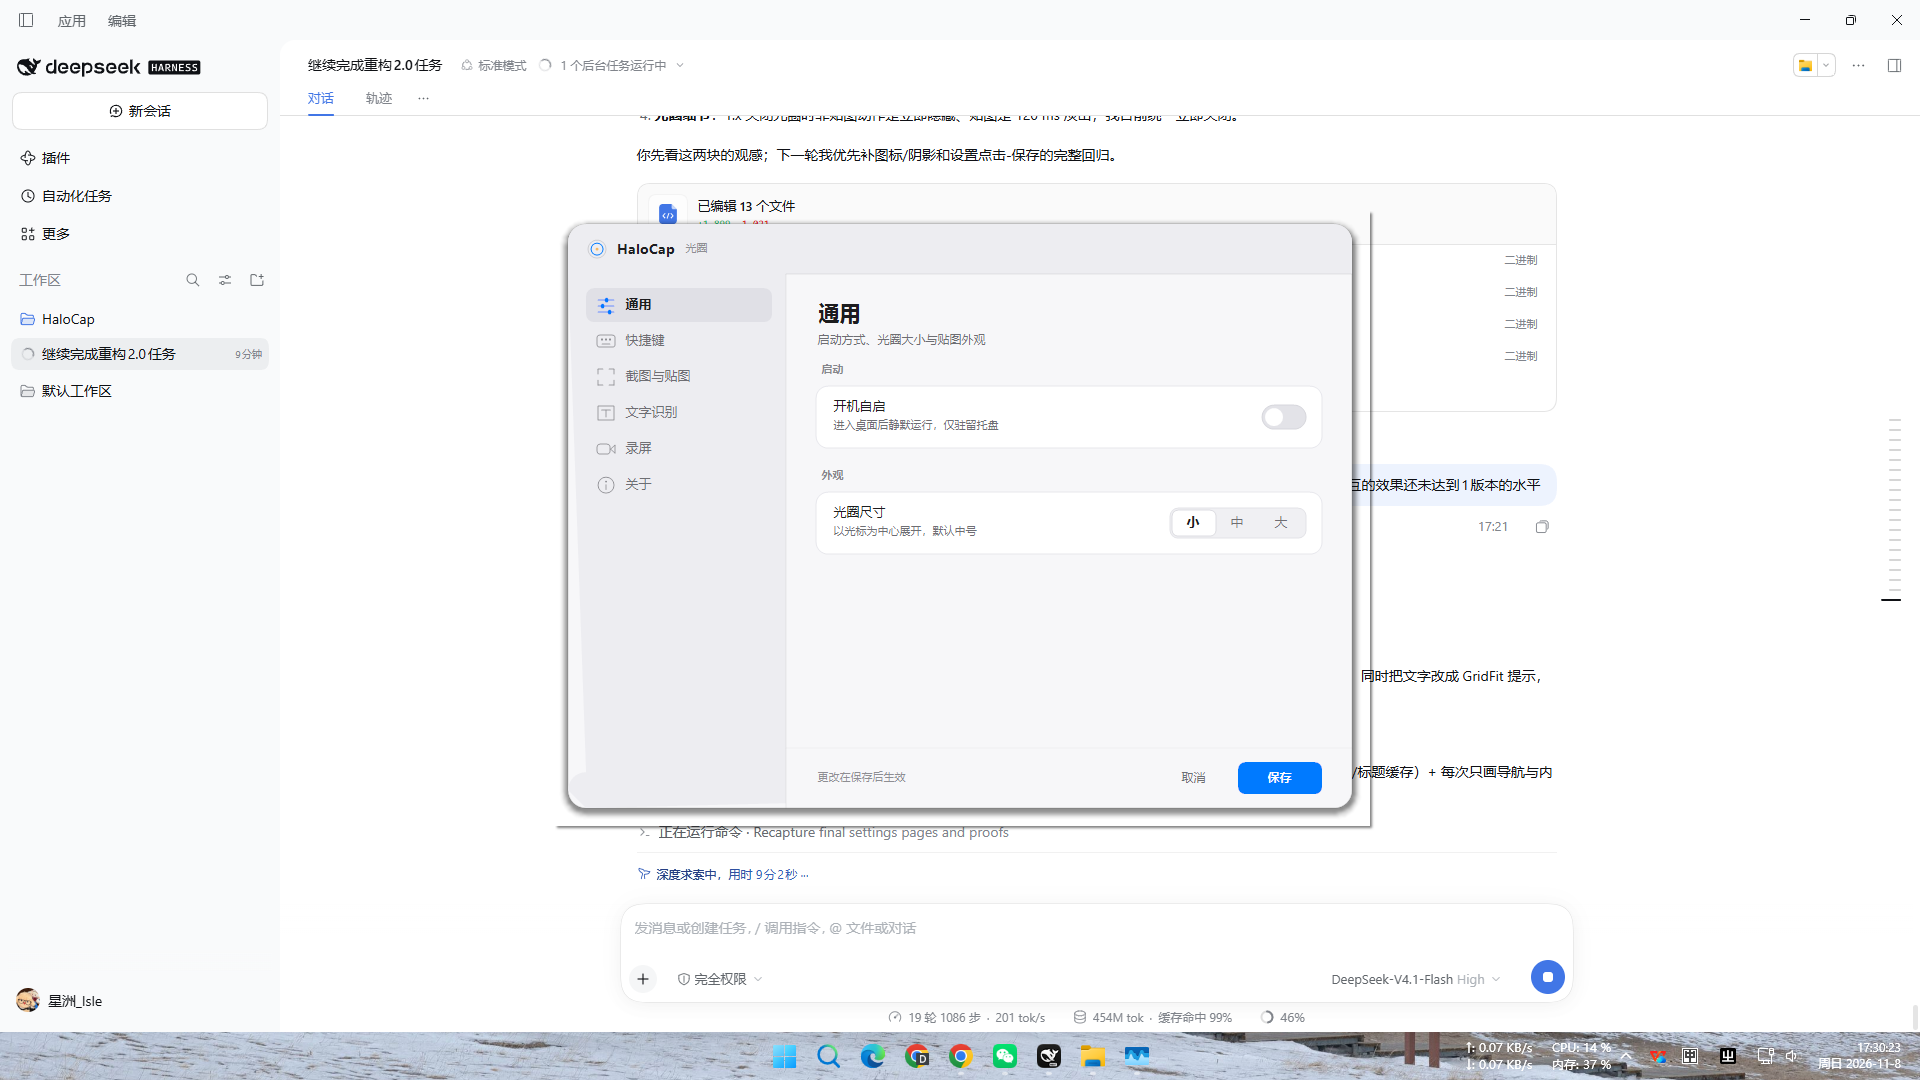
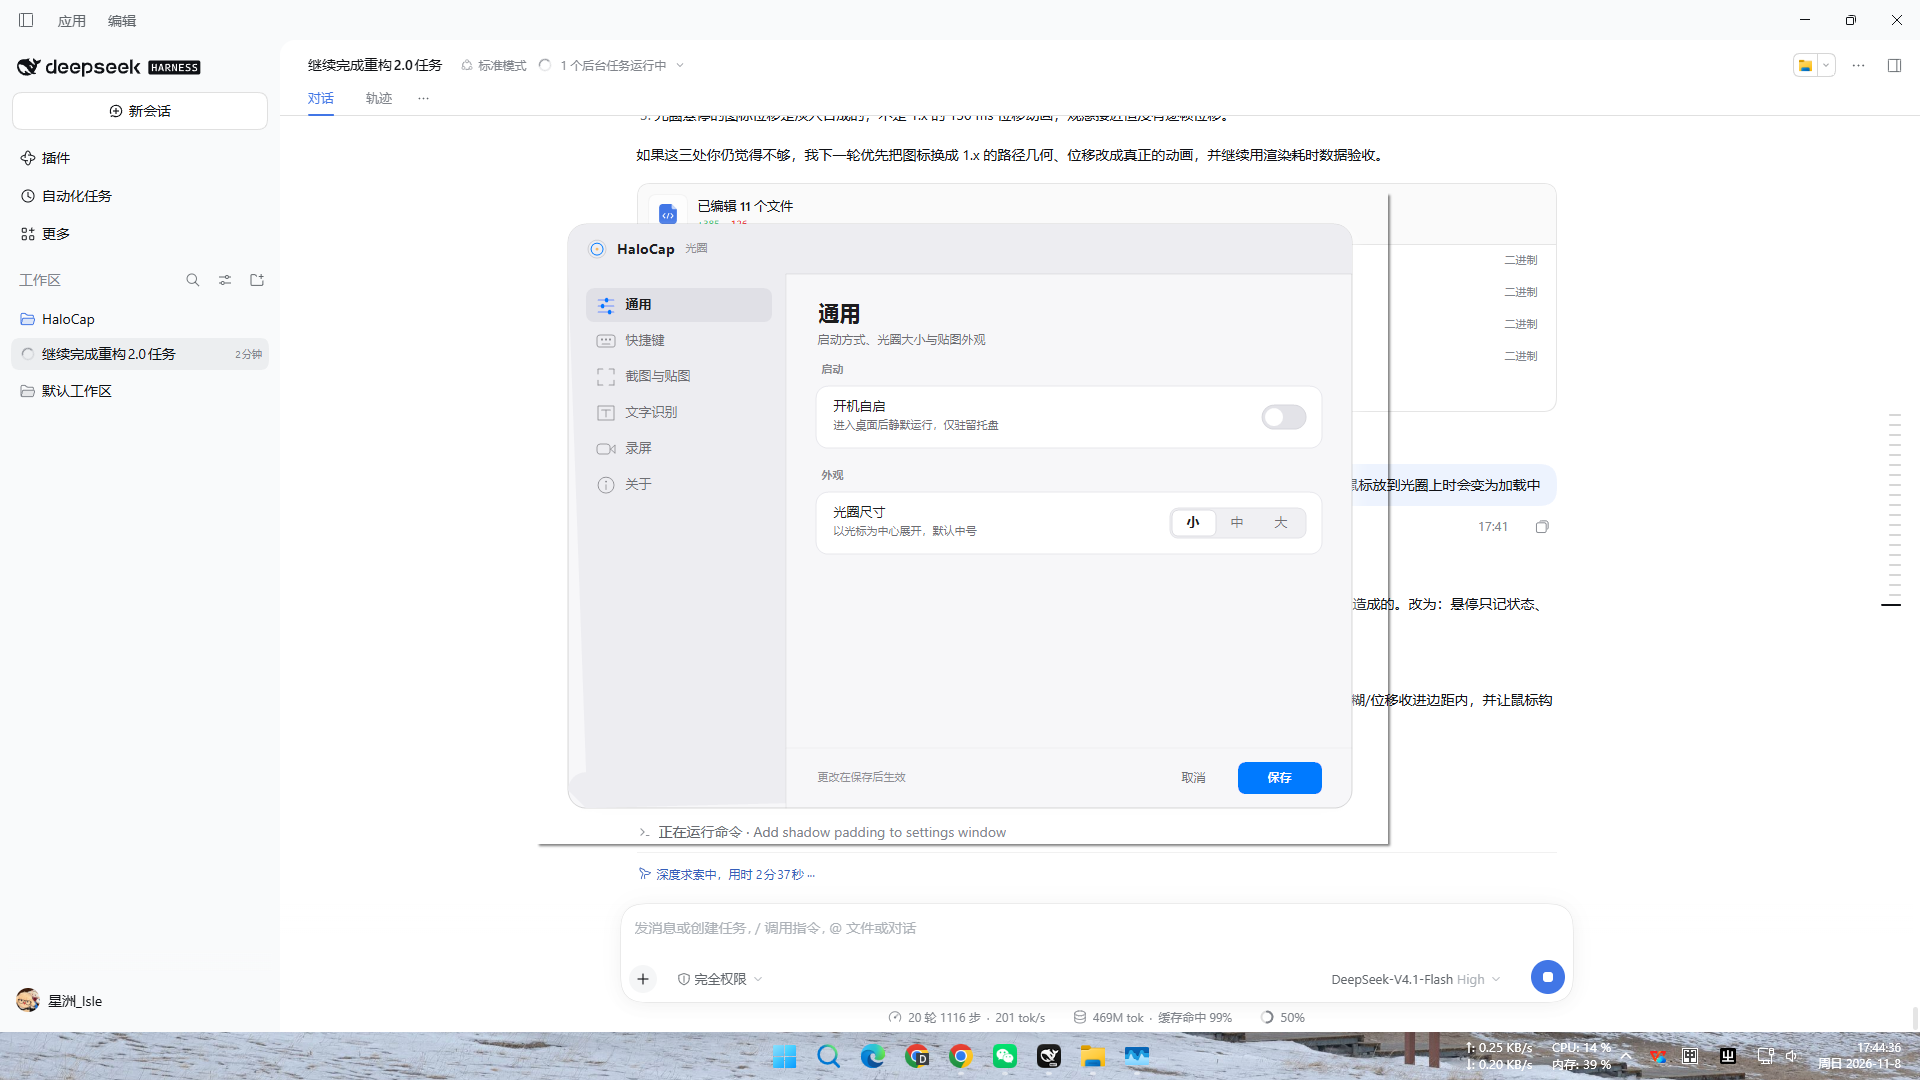
fix: soft shadows that fit the window and arrow cursor on the radial
- New DrawSoftShadow: draw the shape into a downscaled mask, box-blur alpha
  twice horizontally/vertically, then stretch it back with ImageAttributes
  opacity. Replaces the concentric ring/rounded-rect stacks that produced the
  hard rings.
- Settings window grows to 856x656 with a 36 px card inset (820x620 visual card)
  so a 14 px blur + 6 px offset stays inside the window; previously the shadow
  was clipped by the window edge, which read as a hard border.
- Radial disk/centre shadows use the same helper with blur 7/5 px inside the
  20 px padding.
- Radial class registers IDC_ARROW and handles WM_SETCURSOR/WM_MOUSEACTIVATE;
  the mouse hook also forces the arrow, so hovering no longer inherits the
  app-starting/busy cursor.
- Hover redraws stay coalesced through the 16 ms timer; the fade composite is
  unchanged. --radial-selftest now reports APP_RADIAL_CURSOR_NORMAL.

Verified: settings click/drag/save selftest (RENDER_MS=16), radial cursor=1,
radial click=1, ctest 18/18; package rebuilt and relaunched.

Changed region(s): [[0.2812, 0.2139, 0.8125, 0.825], [0.3125, 0.0917, 0.7188, 0.1528], [0.375, 0.1833, 0.4375, 0.2139]]

diff --git a/native/app/soft_shadow.cpp b/native/app/soft_shadow.cpp
@@ -1,0 +1,159 @@
+#include "soft_shadow.h"
+
+#include <algorithm>
+#include <cmath>
+#include <cstdint>
+#include <cstring>
+#include <vector>
+
+namespace halocap::app {
+
+namespace {
+
+using namespace Gdiplus;
+
+void BlurAlphaHorizontal(std::vector<std::uint8_t>& alpha, int width, int height, int radius) {
+    if (radius <= 0) {
+        return;
+    }
+    std::vector<int> prefix(static_cast<std::size_t>(width) + 1);
+    std::vector<std::uint8_t> row(static_cast<std::size_t>(width));
+    for (int y = 0; y < height; ++y) {
+        prefix[0] = 0;
+        for (int x = 0; x < width; ++x) {
+            prefix[static_cast<std::size_t>(x) + 1] =
+                prefix[static_cast<std::size_t>(x)] +
+                alpha[static_cast<std::size_t>(y) * width + x];
+        }
+        for (int x = 0; x < width; ++x) {
+            const int left = std::max(0, x - radius);
+            const int right = std::min(width - 1, x + radius);
+            const int sum = prefix[static_cast<std::size_t>(right) + 1] -
+                            prefix[static_cast<std::size_t>(left)];
+            row[static_cast<std::size_t>(x)] =
+                static_cast<std::uint8_t>(sum / (right - left + 1));
+        }
+        std::memcpy(&alpha[static_cast<std::size_t>(y) * width], row.data(),
+                    static_cast<std::size_t>(width));
+    }
+}
+
+void BlurAlphaVertical(std::vector<std::uint8_t>& alpha, int width, int height, int radius) {
+    if (radius <= 0) {
+        return;
+    }
+    std::vector<int> prefix(static_cast<std::size_t>(height) + 1);
+    std::vector<std::uint8_t> column(static_cast<std::size_t>(height));
+    for (int x = 0; x < width; ++x) {
+        prefix[0] = 0;
+        for (int y = 0; y < height; ++y) {
+            prefix[static_cast<std::size_t>(y) + 1] =
+                prefix[static_cast<std::size_t>(y)] +
+                alpha[static_cast<std::size_t>(y) * width + x];
+        }
+        for (int y = 0; y < height; ++y) {
+            const int top = std::max(0, y - radius);
+            const int bottom = std::min(height - 1, y + radius);
+            const int sum = prefix[static_cast<std::size_t>(bottom) + 1] -
+                            prefix[static_cast<std::size_t>(top)];
+            column[static_cast<std::size_t>(y)] =
+                static_cast<std::uint8_t>(sum / (bottom - top + 1));
+        }
+        for (int y = 0; y < height; ++y) {
+            alpha[static_cast<std::size_t>(y) * width + x] =
+                column[static_cast<std::size_t>(y)];
+        }
+    }
+}
+
+}  // namespace
+
+void DrawSoftShadow(Graphics& target, const RectF& rect, float cornerRadius, float opacity,
+                    float blurRadius, float offsetY, bool ellipse) {
+    if (rect.Width <= 1.0f || rect.Height <= 1.0f || opacity <= 0.0f) {
+        return;
+    }
+
+    const float margin = std::max(2.0f, blurRadius * 2.0f);
+    const float totalWidth = rect.Width + margin * 2.0f;
+    const float totalHeight = rect.Height + margin * 2.0f;
+    const float downscale = std::min(0.5f, 300.0f / std::max(totalWidth, totalHeight));
+    const int smallWidth = std::max(8, static_cast<int>(std::lround(totalWidth * downscale)));
+    const int smallHeight = std::max(8, static_cast<int>(std::lround(totalHeight * downscale)));
+
+    Bitmap mask(smallWidth, smallHeight, PixelFormat32bppPARGB);
+    {
+        Graphics graphics(&mask);
+        graphics.SetSmoothingMode(SmoothingModeAntiAlias);
+        graphics.Clear(Color(0, 0, 0, 0));
+        const float scaleX = smallWidth / totalWidth;
+        const float scaleY = smallHeight / totalHeight;
+        const RectF smallRect(margin * scaleX, margin * scaleY, rect.Width * scaleX,
+                              rect.Height * scaleY);
+        SolidBrush black(Color(255, 0, 0, 0));
+        if (ellipse) {
+            graphics.FillEllipse(&black, smallRect);
+        } else {
+            GraphicsPath path;
+            const float radius = std::max(0.0f, cornerRadius * std::min(scaleX, scaleY));
+            const float d = radius * 2.0f;
+            path.AddArc(smallRect.X, smallRect.Y, d, d, 180.0f, 90.0f);
+            path.AddArc(smallRect.X + smallRect.Width - d, smallRect.Y, d, d, 270.0f, 90.0f);
+            path.AddArc(smallRect.X + smallRect.Width - d, smallRect.Y + smallRect.Height - d, d, d,
+                        0.0f, 90.0f);
+            path.AddArc(smallRect.X, smallRect.Y + smallRect.Height - d, d, d, 90.0f, 90.0f);
+            path.CloseFigure();
+            graphics.FillPath(&black, &path);
+        }
+    }
+
+    Rect lockRect(0, 0, smallWidth, smallHeight);
+    BitmapData data{};
+    if (mask.LockBits(&lockRect, ImageLockModeRead | ImageLockModeWrite, PixelFormat32bppPARGB,
+                      &data) != Ok) {
+        return;
+    }
+    std::vector<std::uint8_t> alpha(static_cast<std::size_t>(smallWidth) * smallHeight);
+    auto* pixels = static_cast<std::uint8_t*>(data.Scan0);
+    for (int y = 0; y < smallHeight; ++y) {
+        const auto* row = pixels + static_cast<std::size_t>(y) * data.Stride;
+        for (int x = 0; x < smallWidth; ++x) {
+            alpha[static_cast<std::size_t>(y) * smallWidth + x] = row[x * 4 + 3];
+        }
+    }
+
+    const int radiusPixels =
+        std::max(1, static_cast<int>(std::lround(blurRadius * downscale * 0.5f)));
+    BlurAlphaHorizontal(alpha, smallWidth, smallHeight, radiusPixels);
+    BlurAlphaVertical(alpha, smallWidth, smallHeight, radiusPixels);
+    BlurAlphaHorizontal(alpha, smallWidth, smallHeight, radiusPixels);
+    BlurAlphaVertical(alpha, smallWidth, smallHeight, radiusPixels);
+
+    for (int y = 0; y < smallHeight; ++y) {
+        auto* row = pixels + static_cast<std::size_t>(y) * data.Stride;
+        for (int x = 0; x < smallWidth; ++x) {
+            const std::uint8_t value = alpha[static_cast<std::size_t>(y) * smallWidth + x];
+            row[x * 4 + 0] = value;   // 预乘：黑 = 0，alpha 同时写进 RGB
+            row[x * 4 + 1] = value;
+            row[x * 4 + 2] = value;
+            row[x * 4 + 3] = value;
+        }
+    }
+    mask.UnlockBits(&data);
+
+    ColorMatrix matrix = {};
+    matrix.m[0][0] = 1.0f;
+    matrix.m[1][1] = 1.0f;
+    matrix.m[2][2] = 1.0f;
+    matrix.m[3][3] = opacity;
+    ImageAttributes attributes;
+    attributes.SetColorMatrix(&matrix);
+
+    target.SetInterpolationMode(InterpolationModeHighQualityBicubic);
+    target.DrawImage(&mask, RectF(rect.X - margin, rect.Y - margin + offsetY,
+                                  totalWidth, totalHeight),
+                     0.0f, 0.0f, static_cast<float>(smallWidth), static_cast<float>(smallHeight),
+                     UnitPixel, &attributes);
+}
+
+}

diff --git a/native/app/radial_menu.cpp b/native/app/radial_menu.cpp
@@ -11,6 +11,8 @@
 #include <cstring>
 #include <string>
 
+#include "soft_shadow.h"
+
 namespace halocap::app {
 
 namespace {
@@ -199,6 +201,7 @@ bool RadialMenu::EnsureClass() {
         description.cbSize = sizeof(description);
         description.lpfnWndProc = &RadialMenu::WndProc;
         description.hInstance = GetModuleHandleW(nullptr);
+        description.hCursor = LoadCursorW(nullptr, IDC_ARROW);
         description.lpszClassName = kClassName;
         return RegisterClassExW(&description) != 0 ||
                GetLastError() == ERROR_CLASS_ALREADY_EXISTS;
@@ -283,6 +286,7 @@ bool RadialMenu::Open(SelectHandler onSelect, core::MenuSize size) {
 
     Render();
     ShowWindow(static_cast<HWND>(window_), SW_SHOWNOACTIVATE);
+    SetCursor(LoadCursorW(nullptr, IDC_ARROW));
     SetTimer(static_cast<HWND>(window_), 1, 16, nullptr);
 
     g_active = this;
@@ -351,16 +355,9 @@ void RadialMenu::BuildFrame(int index) {
     DrawDesign(graphics, index - 1);
     cache_->frames[index] = std::move(frame);
 }
-void RadialMenu::DrawDesign(Gdiplus::Graphics& graphics, int hoverIndex) {    // 外盘投影：用一圈递减 alpha 的椭圆近似 DropShadow（30 blur / 2 depth / 0.22）。
-    for (int i = 0; i < 15; ++i) {
-        const float t = static_cast<float>(i) / 14.0f;
-        const float radius = kDiskRadius + 1.0f + i * 1.35f;
-        const int alpha = static_cast<int>(26.0f * (1.0f - t) * (1.0f - t));
-        SolidBrush shadow(Color(static_cast<BYTE>(alpha), 0, 0, 0));
-        graphics.FillEllipse(&shadow, 190.0f - radius, 192.0f - radius, radius * 2.0f,
-                             radius * 2.0f);
-    }
-
+void RadialMenu::DrawDesign(Gdiplus::Graphics& graphics, int hoverIndex) {    // 外盘投影：真软阴影（降采样 + 盒式模糊），避免一圈圈同心环。
+    DrawSoftShadow(graphics, RectF(20.0f, 22.0f, 340.0f, 340.0f), 170.0f, 0.85f, 7.0f, 4.0f,
+                   true);
     // 白色径向盘：#FFFFFF → #F8F9FB(0.62) → #EFF1F5。
     GraphicsPath disk;
     disk.AddEllipse(190.0f - kDiskRadius, 190.0f - kDiskRadius, kDiskRadius * 2.0f,
@@ -456,15 +453,8 @@ void RadialMenu::DrawDesign(Gdiplus::Graphics& graphics, int hoverIndex) {    //
     }
 
     // 中心盘：104 白色圆 + 柔和投影。
-    for (int i = 0; i < 9; ++i) {
-        const float t = static_cast<float>(i) / 8.0f;
-        const float radius = 52.0f + i * 1.4f;
-        const int alpha = static_cast<int>(16.0f * (1.0f - t) * (1.0f - t));
-        SolidBrush shadow(Color(static_cast<BYTE>(alpha), 0, 0, 0));
-        graphics.FillEllipse(&shadow, 190.0f - radius, 192.0f - radius, radius * 2.0f,
-                             radius * 2.0f);
-    }
-    SolidBrush centerWhite(Color(255, 255, 255, 255));
+    DrawSoftShadow(graphics, RectF(138.0f, 140.0f, 104.0f, 104.0f), 52.0f, 0.25f, 5.0f, 2.0f,
+                   true);    SolidBrush centerWhite(Color(255, 255, 255, 255));
     graphics.FillEllipse(&centerWhite, 190.0f - 52.0f, 190.0f - 52.0f, 104.0f, 104.0f);
     Pen centerBorder(Color(20, 0, 0, 0), 1.0f);
     graphics.DrawEllipse(&centerBorder, 190.0f - 52.0f, 190.0f - 52.0f, 104.0f, 104.0f);
@@ -725,6 +715,7 @@ LRESULT CALLBACK RadialMenu::MouseHook(int code, WPARAM wParam, LPARAM lParam) {
     const auto* mouse = reinterpret_cast<const MSLLHOOKSTRUCT*>(lParam);
     switch (wParam) {
     case WM_MOUSEMOVE:
+        SetCursor(LoadCursorW(nullptr, IDC_ARROW));
         if (g_active->dragging_) {
             g_active->DragTo(mouse->pt);
         } else {
@@ -789,11 +780,17 @@ LRESULT CALLBACK RadialMenu::WndProc(HWND window, UINT message, WPARAM wParam, L
 LRESULT RadialMenu::Handle(HWND window, UINT message, WPARAM wParam, LPARAM lParam) {
     switch (message) {
     case WM_MOUSEMOVE: {
+        SetCursor(LoadCursorW(nullptr, IDC_ARROW));
         POINT cursor{};
         GetCursorPos(&cursor);
         UpdateHover(cursor);
         return 0;
     }
+    case WM_MOUSEACTIVATE:
+        return MA_NOACTIVATE;
+    case WM_SETCURSOR:
+        SetCursor(LoadCursorW(nullptr, IDC_ARROW));
+        return TRUE;
     case WM_LBUTTONDOWN: {
         POINT cursor{ GET_X_LPARAM(lParam), GET_Y_LPARAM(lParam) };
         ClientToScreen(window, &cursor);

diff --git a/native/app/settings_window.cpp b/native/app/settings_window.cpp
@@ -20,6 +20,7 @@
 
 #include "update.h"
 #include "version.h"
+#include "soft_shadow.h"
 #include "win32_update_fetch.h"
 #include "win32_autostart.h"
 
@@ -30,9 +31,9 @@ namespace {
 using namespace Gdiplus;
 
 constexpr wchar_t kClassName[] = L"HaloCapSettings";
-constexpr float kWindowW = 820.0f;
-constexpr float kWindowH = 620.0f;
-constexpr float kMargin = 18.0f;
+constexpr float kWindowW = 856.0f;   // 820 卡片 + 18 DIP 透明边给阴影
+constexpr float kWindowH = 656.0f;
+constexpr float kMargin = 36.0f;    // 卡片 inset：18 视觉边距 + 18 阴影余量
 constexpr float kTitleBar = 50.0f;
 constexpr float kSidebar = 218.0f;
 constexpr float kFooter = 60.0f;
@@ -768,32 +769,8 @@ void SettingsWindow::BuildBackgroundCache() {
     const RectF frame(kMargin, kMargin, kWindowW - 2 * kMargin, kWindowH - 2 * kMargin);
     Fonts* fonts = GetFonts();
 
-    // 阴影按 1/3 分辨率烘焙再拉伸：14 层全窗填充会把单次重绘拖到 ~250 ms。
-    const float shadowScale = 1.0f / 3.0f;
-    const int shadowWidth = std::max(1, static_cast<int>(std::lround(widthPx_ * shadowScale)));
-    const int shadowHeight = std::max(1, static_cast<int>(std::lround(heightPx_ * shadowScale)));
-    {
-        Gdiplus::Bitmap shadow(shadowWidth, shadowHeight, PixelFormat32bppPARGB);
-        Gdiplus::Graphics sg(&shadow);
-        sg.SetSmoothingMode(SmoothingModeNone);
-        sg.SetPixelOffsetMode(PixelOffsetModeHalf);
-        sg.Clear(Color(0, 0, 0, 0));
-        Matrix shadowTransform(shadowScale * scale_, 0.0f, 0.0f, shadowScale * scale_, 0.0f, 0.0f);
-        sg.SetTransform(&shadowTransform);
-        for (int i = 0; i < 14; ++i) {
-            const float t = static_cast<float>(i) / 13.0f;
-            const float expand = 1.0f + i * 0.9f;
-            const int alpha = static_cast<int>(30.0f * (1.0f - t) * (1.0f - t));
-            FillRoundRect(sg,
-                          RectF(frame.X - expand, frame.Y - expand + 4.0f,
-                                frame.Width + expand * 2.0f, frame.Height + expand * 2.0f),
-                          kRadius + expand, Color(static_cast<BYTE>(alpha), 0, 0, 0));
-        }
-        g.SetInterpolationMode(InterpolationModeHighQualityBicubic);
-        g.DrawImage(&shadow, RectF(0.0f, 0.0f, kWindowW, kWindowH));
-    }
-
-    FillRoundRect(g, frame, kRadius, Color(255, 255, 255, 255));
+    // 真软阴影：形状 → 降采样 → 两次盒式模糊 → 拉伸合成（缓存里只做一次）。
+    DrawSoftShadow(g, frame, kRadius, 0.8f, 14.0f, 6.0f, false);    FillRoundRect(g, frame, kRadius, Color(255, 255, 255, 255));
     FillRoundRect(g, frame, kRadius, content);
     StrokeRoundRect(g, frame, kRadius, Color(38, 0, 0, 0));
 

diff --git a/native/app/main.cpp b/native/app/main.cpp
@@ -1472,16 +1472,16 @@ int Run(const Options& options) {
             GetWindowRect(testWindow->Handle(), &windowRect);
             const LRESULT dragHit = SendMessageW(
                 testWindow->Handle(), WM_NCHITTEST, 0,
-                MAKELPARAM(windowRect.left + 300, windowRect.top + 30));
+                MAKELPARAM(windowRect.left + 300, windowRect.top + 60));
             const bool draggable = dragHit == HTCAPTION;
             const auto click = [&](int x, int y) {
                 const LPARAM point = MAKELPARAM(x, y);
                 SendMessageW(testWindow->Handle(), WM_LBUTTONDOWN, MK_LBUTTON, point);
                 SendMessageW(testWindow->Handle(), WM_LBUTTONUP, 0, point);
             };
-            click(734, 211);   // 通用页「开机自启」开关（组标签下方第一行）
+            click(752, 229);   // 通用页「开机自启」开关（组标签下方第一行）
             const std::int64_t clickStart = QpcNowUs();
-            click(100, 135);   // 切到「快捷键」页
+            click(118, 153);   // 切到「快捷键」页
             const double clickMs = static_cast<double>(QpcNowUs() - clickStart) / 1000.0;
             Sleep(120);
 
@@ -1491,7 +1491,7 @@ int Run(const Options& options) {
                 halocap::platform::win32::SaveBgraPng(options.settingsClickSelftestPath,
                                                       desktop.bgra.data(), desktop.width,
                                                       desktop.height, desktop.width * 4);
-            click(730, 572);   // 保存
+            click(748, 590);   // 保存
             Sleep(120);
 
             AddFlag(report, "APP_SETTINGS_CLICK_WINDOW", true);
@@ -1683,9 +1683,16 @@ int Run(const Options& options) {
             radialMenu->Close();
         }
 
+        CURSORINFO cursorInfo{};
+        cursorInfo.cbSize = sizeof(cursorInfo);
+        const bool cursorNormal =
+            GetCursorInfo(&cursorInfo) &&
+            cursorInfo.hCursor != LoadCursorW(nullptr, IDC_WAIT) &&
+            cursorInfo.hCursor != LoadCursorW(nullptr, IDC_APPSTARTING);
+        AddFlag(report, "APP_RADIAL_CURSOR_NORMAL", cursorNormal);
         AddFlag(report, "APP_RADIAL_WINDOW", opened);
         AddFlag(report, "APP_RADIAL_PROOF", proof);
-        radialSelftestOk = opened && proof;
+        radialSelftestOk = opened && proof && cursorNormal;
         log.Info(radialSelftestOk ? "radial selftest: ok" : "radial selftest: failed");
         running = false;
     }

diff --git a/native/app/soft_shadow.h b/native/app/soft_shadow.h
@@ -1,0 +1,14 @@
+#pragma once
+
+#include <objbase.h>
+#include <gdiplus.h>
+
+namespace halocap::app {
+
+// 真软阴影：把形状画进一张降采样的小位图，对 alpha 做两次盒式模糊，
+// 再按目标矩形拉伸回来。比“多层同心椭圆/圆角矩形”少了同心环和硬边，
+// 也比 1:1 全窗多层填充快得多；只在窗口打开/缓存帧构建时调用一次。
+void DrawSoftShadow(Gdiplus::Graphics& target, const Gdiplus::RectF& rect, float cornerRadius,
+                    float opacity, float blurRadius, float offsetY, bool ellipse);
+
+}
